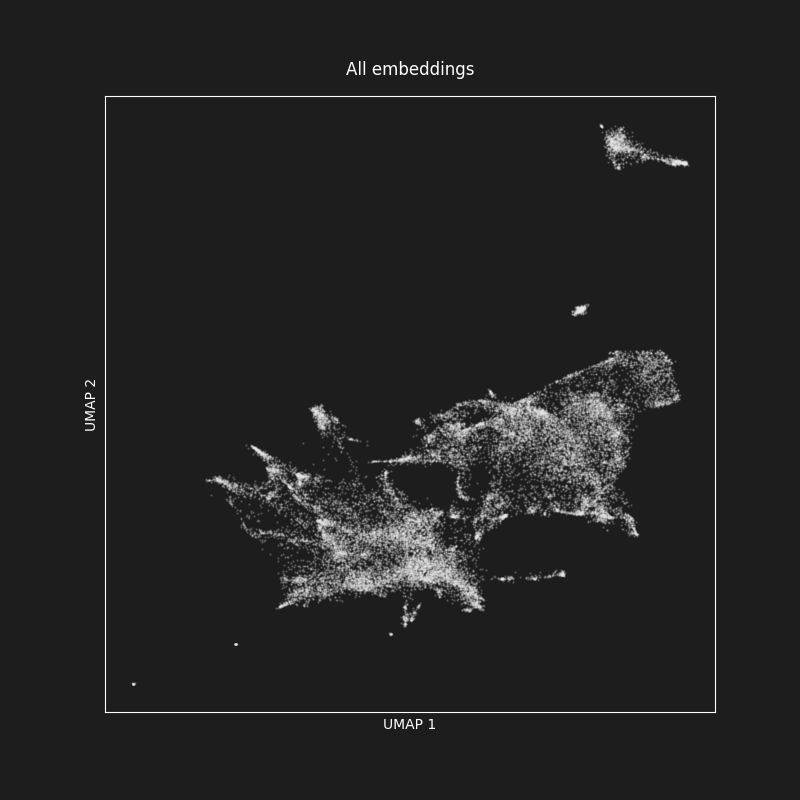
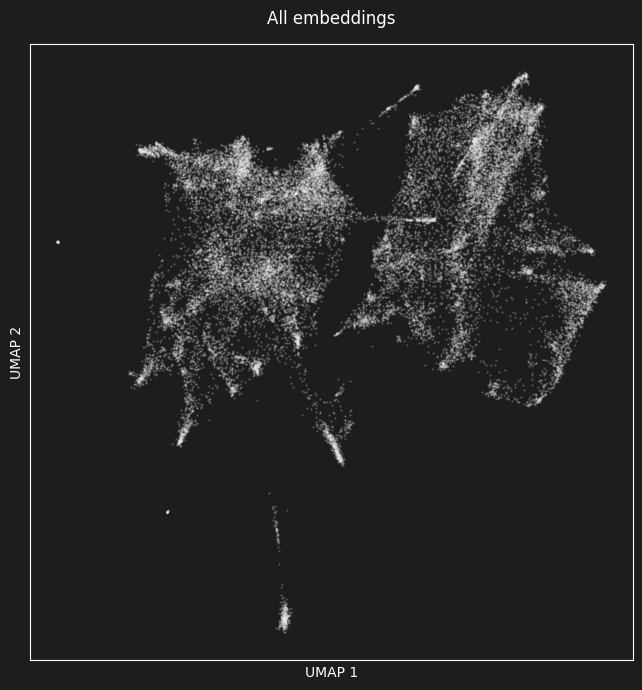
update figs

diff --git a/scripts/analyze_embeddings.py b/scripts/analyze_embeddings.py
@@ -113,8 +113,8 @@ plt.xlabel("UMAP 1")
 plt.ylabel("UMAP 2")
 plt.xticks([])
 plt.yticks([])
-plt.gca().set_aspect(0.63)
-plt.savefig(Path(figs_dir, "embeddings.png"))
+plt.gca().set_aspect(1.3)
+plt.savefig(Path(figs_dir, "embeddings.png"), bbox_inches="tight")
 
 
 # Plot the embeddings colored by species
@@ -126,9 +126,9 @@ plt.scatter(
     df[df["common_name"] == "Unknown"]["umap_x"],
     df[df["common_name"] == "Unknown"]["umap_y"],
     label="Unknown",
-    alpha=0.05,
+    alpha=0.5,
     color="#eaeaea",
-    s=1.5,
+    s=0.1,
 )
 for i, (species, group) in enumerate(
     df[df["common_name"] != "Unknown"].groupby("common_name")
@@ -158,8 +158,8 @@ for handle in legend.legend_handles:
     handle.set_alpha(1)
 plt.xticks([])
 plt.yticks([])
-plt.gca().set_aspect(0.63)
-plt.savefig(Path(figs_dir, "embeddings_species.png"))
+plt.gca().set_aspect(1.3)
+plt.savefig(Path(figs_dir, "embeddings_species.png"), bbox_inches="tight")
 
 
 # Plot the embeddings colored by site
@@ -191,8 +191,8 @@ for handle in legend.legend_handles:
     handle.set_alpha(1)
 plt.xticks([])
 plt.yticks([])
-plt.gca().set_aspect(0.63)
-plt.savefig(Path(figs_dir, "embeddings_site.png"))
+plt.gca().set_aspect(1.3)
+plt.savefig(Path(figs_dir, "embeddings_site.png"), bbox_inches="tight")
 
 
 # Plot the embeddings colored by time
@@ -208,8 +208,8 @@ for i, (time, group) in enumerate(df.sort_values("time").groupby("time")):
         group["umap_x"],
         group["umap_y"],
         label=time,
-        alpha=0.2,
-        s=0.5,
+        alpha=0.5,
+        s=1.5,
         color=time_palette[i],
     )
 plt.title("Embeddings colored by time")
@@ -230,10 +230,10 @@ cb = plt.colorbar(
 )
 cb.ax.set_yticklabels(cbarticks)
 cb.ax.set_ylim(0, len(df["time"].unique()))  # Set the colorbar height
-plt.gca().set_aspect(0.63)
+plt.gca().set_aspect(1.3)
 plt.xticks([])
 plt.yticks([])
-plt.savefig(Path(figs_dir, "embeddings_time.png"))
+plt.savefig(Path(figs_dir, "embeddings_time.png"), bbox_inches="tight")
 
 
 # Cluster the embeddings using HDBSCAN
@@ -277,8 +277,8 @@ for handle in legend.legend_handles:
     handle.set_alpha(1)
 plt.xticks([])
 plt.yticks([])
-plt.gca().set_aspect(0.63)
-plt.savefig(Path(figs_dir, "embeddings_cluster.png"))
+plt.gca().set_aspect(1.3)
+plt.savefig(Path(figs_dir, "embeddings_cluster.png"), bbox_inches="tight")
 
 
 # Plot sample spectrograms for each cluster
@@ -331,7 +331,7 @@ for cluster, group in df.groupby("cluster"):
                 color=cluster_palette_4[cluster],
             )
 plt.tight_layout()
-plt.savefig(Path(figs_dir, "embeddings_cluster_spectrograms.png"))
+plt.savefig(Path(figs_dir, "embeddings_cluster_spectrograms.png"), bbox_inches="tight")
 
 # get file names for cluster 2
 cluster_2_files = df[df["cluster"] == 2][
@@ -382,8 +382,8 @@ plt.yticks([])
 for handle in plt.gca().get_legend().legendHandles:
     handle.set_sizes([50.0])
     handle.set_alpha(1)
-plt.gca().set_aspect(0.8)
-plt.savefig(Path(figs_dir, "embeddings_birds_species.png"))
+plt.gca().set_aspect(1)
+plt.savefig(Path(figs_dir, "embeddings_birds_species.png"), bbox_inches="tight")
 
 # Now color by site
 plt.figure(figsize=(figwidth, figwidth))
@@ -408,8 +408,8 @@ plt.yticks([])
 for handle in plt.gca().get_legend().legendHandles:
     handle.set_sizes([50.0])
     handle.set_alpha(1)
-plt.gca().set_aspect(0.8)
-plt.savefig(Path(figs_dir, "embeddings_birds_site.png"))
+plt.gca().set_aspect(1)
+plt.savefig(Path(figs_dir, "embeddings_birds_site.png"), bbox_inches="tight")
 
 
 # ──── WREN ANALYSIS ──────────────────────────────────────────────────────────
@@ -451,9 +451,9 @@ for handle in legend.legend_handles:
     handle.set_alpha(1)
 plt.xticks([])
 plt.yticks([])
-plt.gca().set_aspect(0.63)
+plt.gca().set_aspect(0.9)
 plt.title("Eurasian Wren embeddings by site", fontsize=textsize)
-plt.savefig(Path(figs_dir, "wren_sites.png"))
+plt.savefig(Path(figs_dir, "wren_sites.png"), bbox_inches="tight")
 
 # ──── CLUSTER WREN DATA ──────────────────────────────────────────────────────
 
@@ -491,9 +491,9 @@ for handle in legend.legend_handles:
     handle.set_alpha(1)
 plt.xticks([])
 plt.yticks([])
-plt.gca().set_aspect(0.63)
+plt.gca().set_aspect(0.9)
 plt.title("Eurasian Wren embeddings by cluster", fontsize=textsize)
-plt.savefig(Path(figs_dir, "wren_clusters.png"))
+plt.savefig(Path(figs_dir, "wren_clusters.png"), bbox_inches="tight")
 
 
 # get the file names and times for each cluster
@@ -553,7 +553,7 @@ for cluster, files in cluster_files.items():
         # print file name and cluster
         print(f"File name: {file_name} from cluster {cluster} and site {site}")
 plt.tight_layout()
-plt.savefig(Path(figs_dir, "wren_clusters_spectrograms.png"))
+plt.savefig(Path(figs_dir, "wren_clusters_spectrograms.png"), bbox_inches="tight")
 
 
 # ──── DISTANCE BETWEEN EMBEDDINGS FOR EACH SITE ACROSS TIME ──────────────────
@@ -631,7 +631,7 @@ plt.legend(
 for handle in plt.gca().get_legend().legendHandles:
     handle.set_linewidth(7)
     handle.set_alpha(1)
-plt.savefig(Path(figs_dir, "site_distances.png"))
+plt.savefig(Path(figs_dir, "site_distances.png"), bbox_inches="tight")
 
 # Get the point change for AM49
 site_AM49 = site_distances[site_distances["site1"] == "AM49"].reset_index(drop=True)
@@ -669,4 +669,4 @@ colorbar.set_label("Distance", fontsize=textsize)
 plt.xticks(range(len(site_list)), site_list, rotation=0, fontsize=textsize)
 plt.yticks(range(len(site_list)), site_list, fontsize=textsize)
 plt.title("Average distance between Sites", fontsize=textsize)
-plt.savefig(Path(figs_dir, "site_distances_matrix.png"))
+plt.savefig(Path(figs_dir, "site_distances_matrix.png"), bbox_inches="tight")

diff --git a/scripts/analyze_detections.py b/scripts/analyze_detections.py
@@ -440,3 +440,8 @@ with open(Path(rootdir, "data", "derived", "README.txt"), "w") as file:
 - species_site_time.csv: Number of detections by site, time and species
 """
     )
+
+
+# get all rows where common_name includes goldcrest
+df_nona = df.dropna(subset=["common_name"])
+goldcrest_df = df_nona[df_nona["common_name"].str.contains("goldfinch", case=False)]
